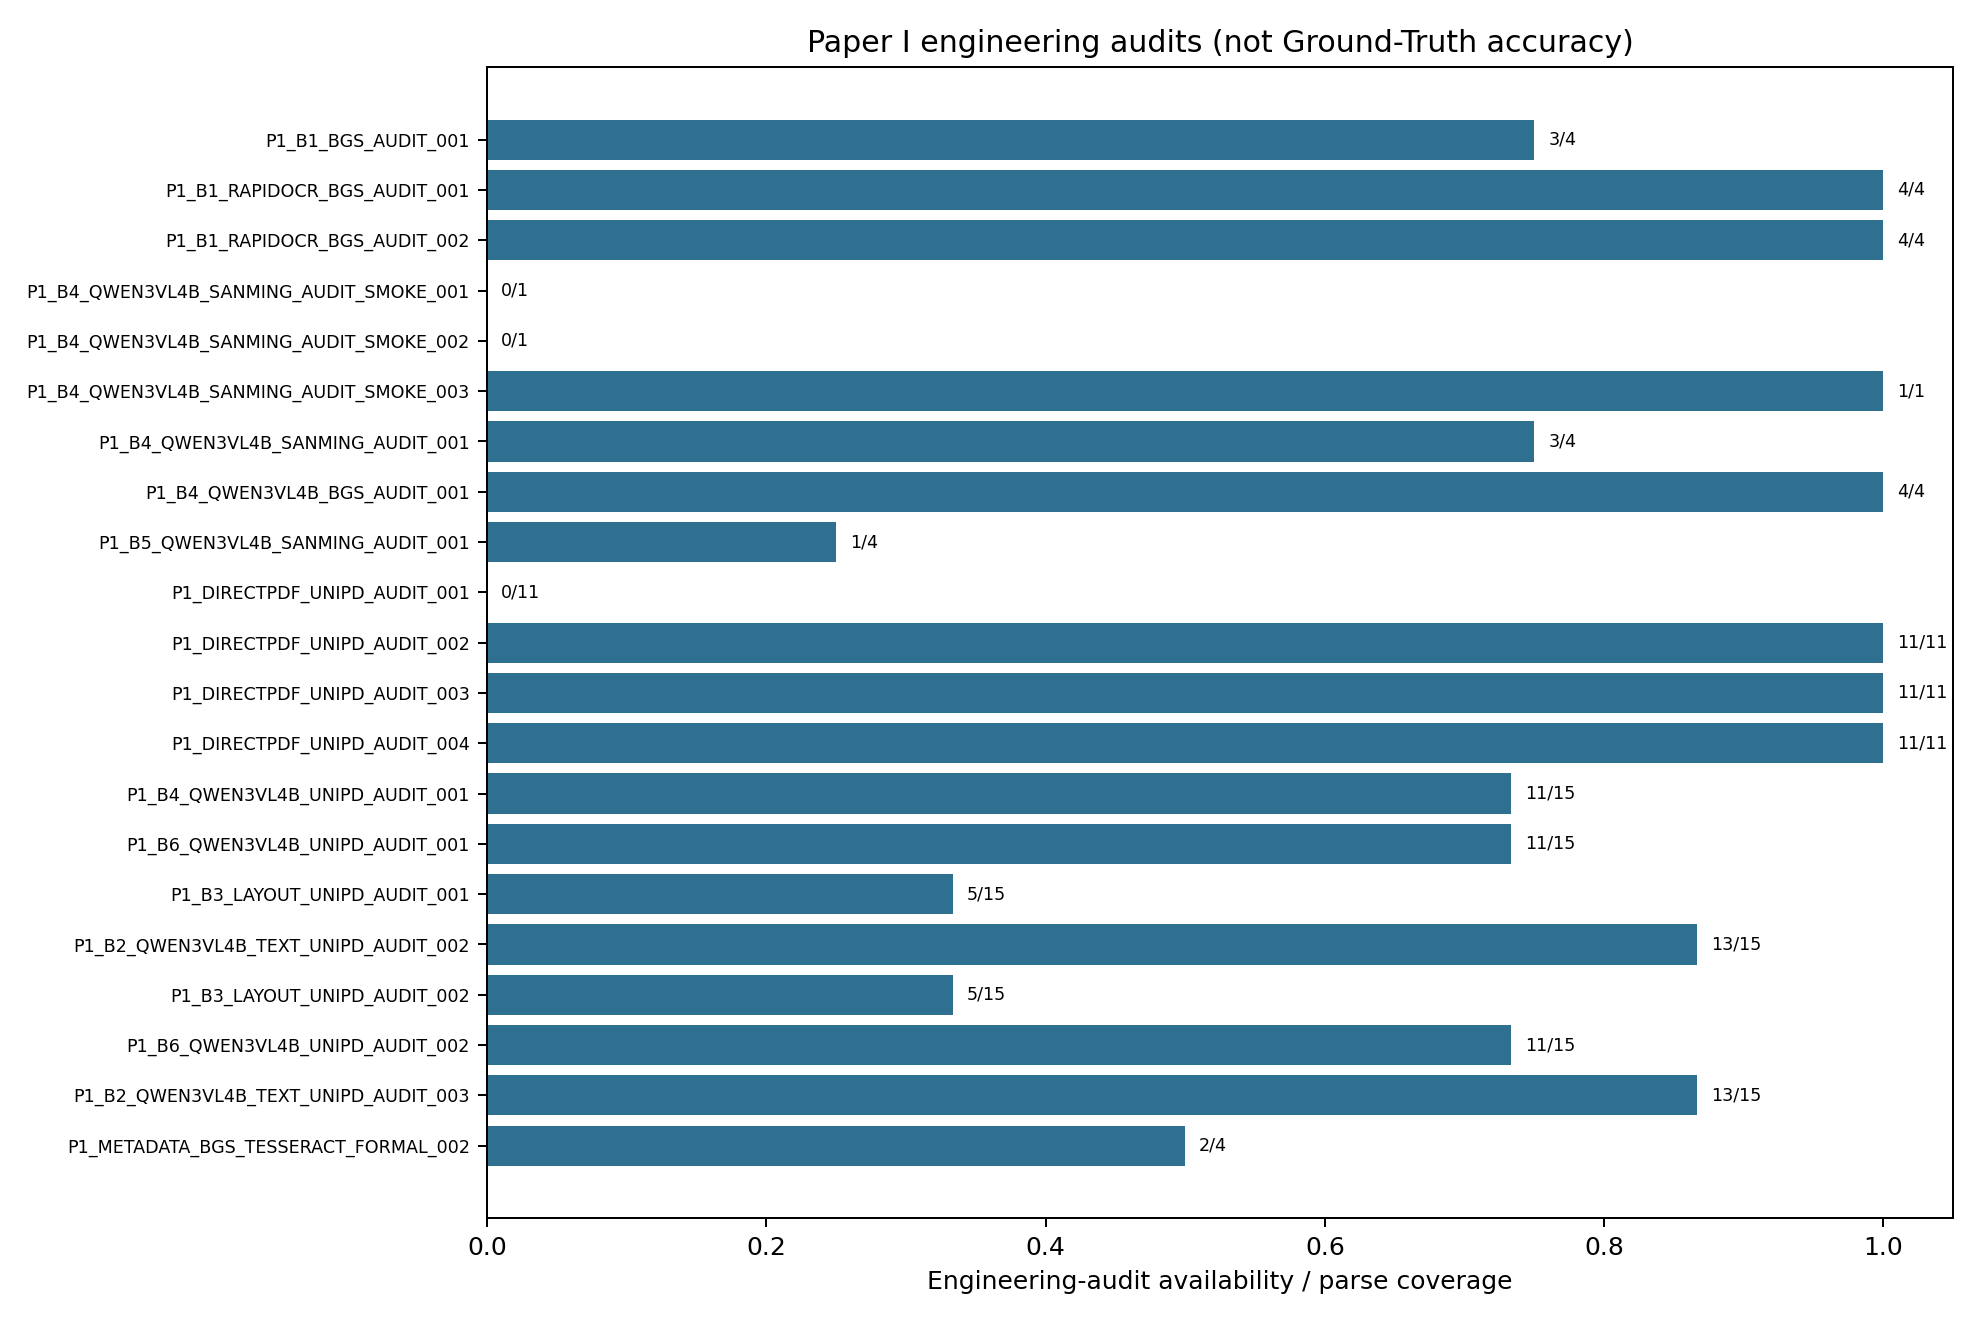
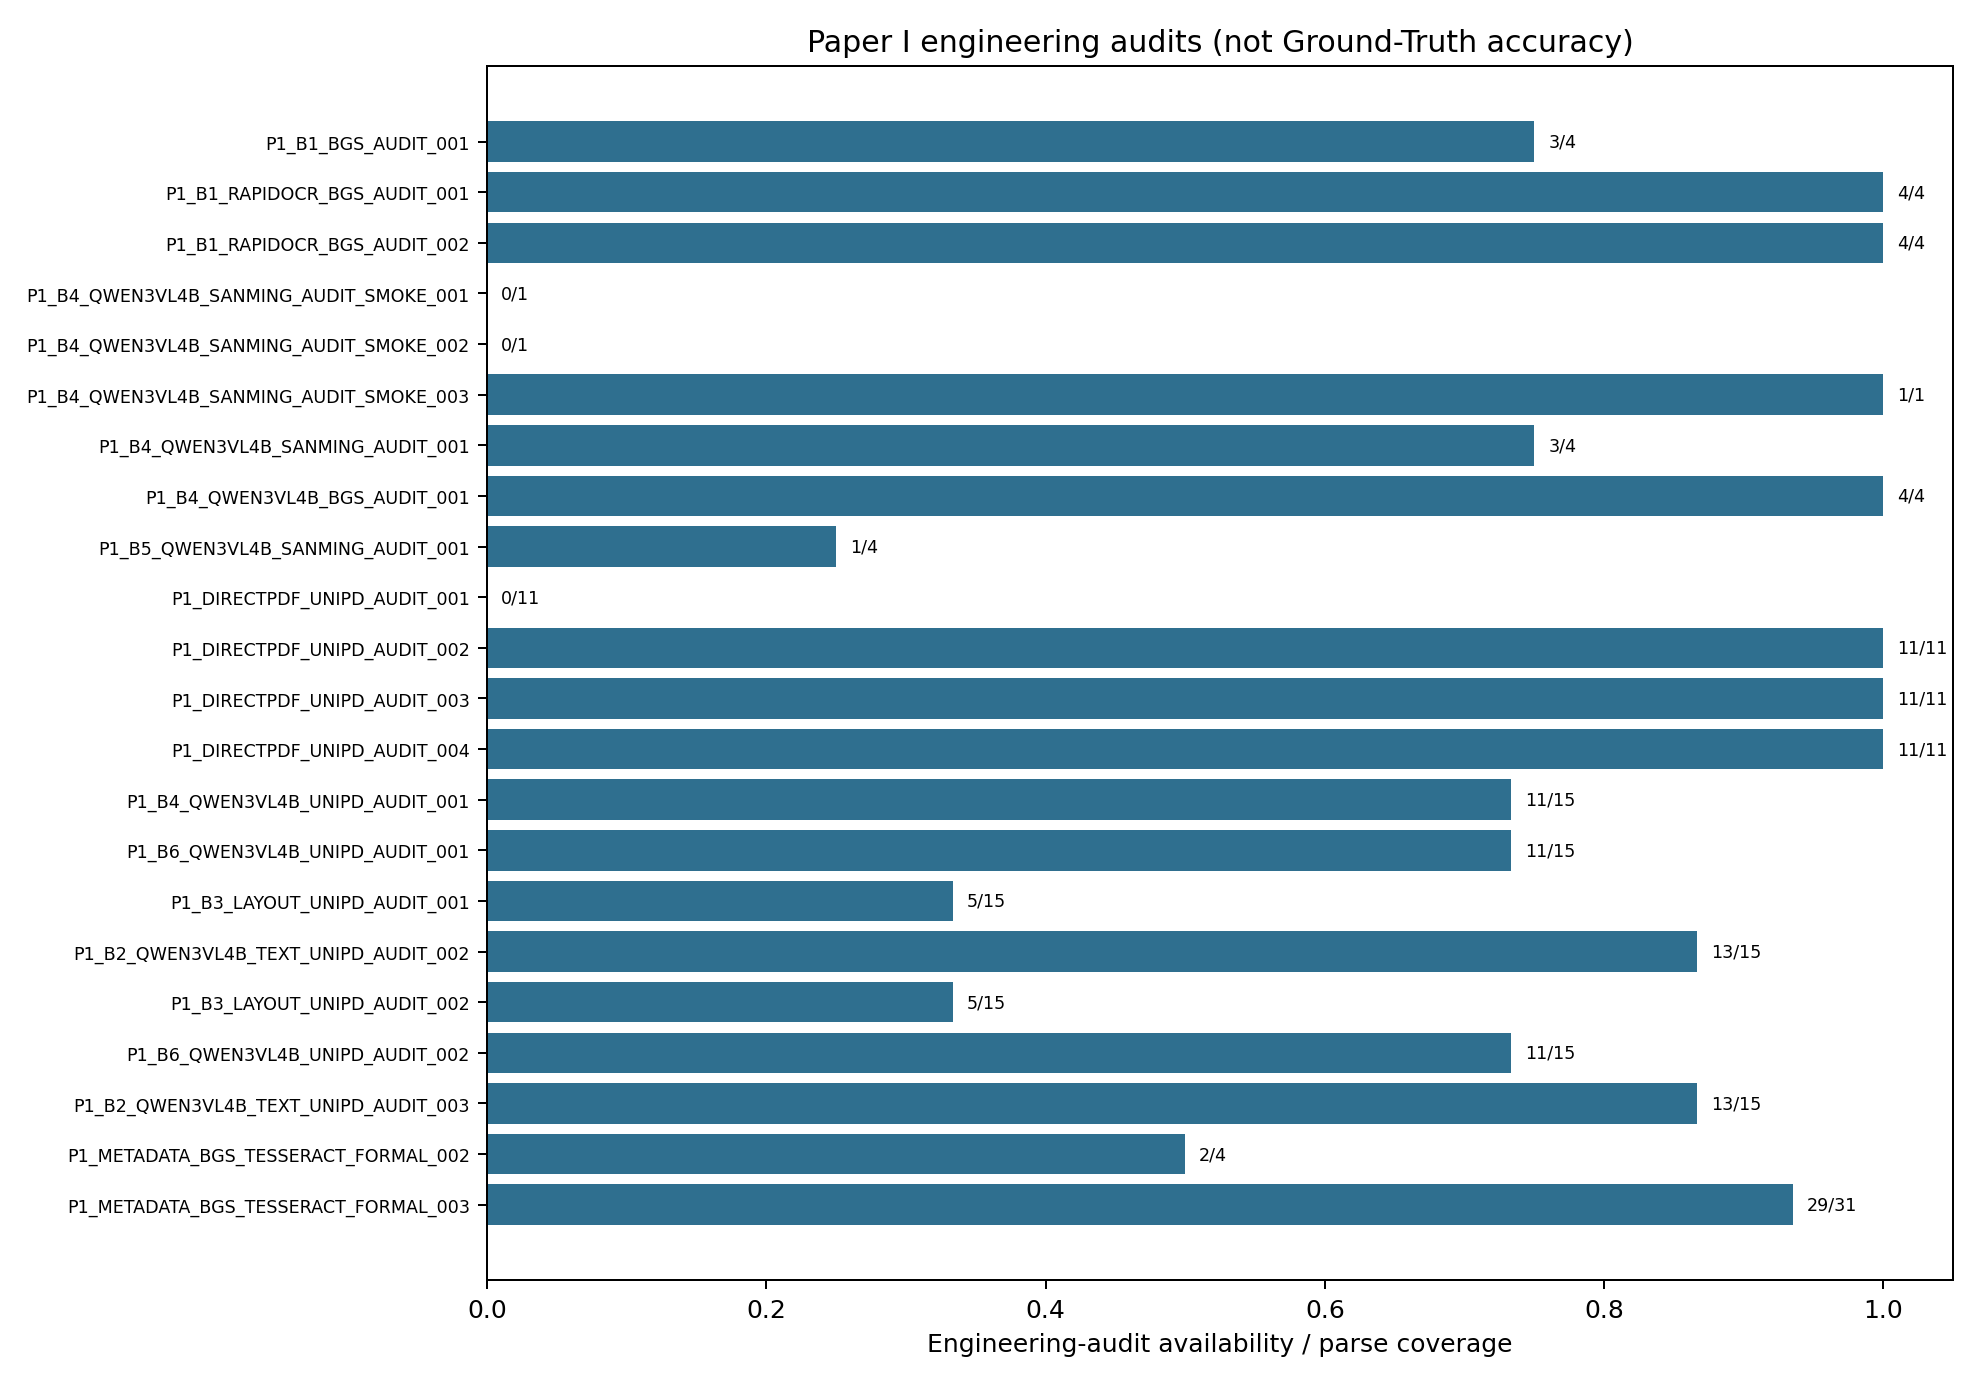
exp: index expanded BGS metadata benchmark

Changed region(s): [[0.0, 0.031, 0.9859, 0.9917]]

diff --git a/scripts/run_bgs_baseline.py b/scripts/run_bgs_baseline.py
@@ -39,6 +39,7 @@ def main() -> None:
     parser = argparse.ArgumentParser()
     parser.add_argument("--experiment-id", required=True)
     parser.add_argument("--dataset-root", type=Path, default=Path("/data/GeoLogParser/datasets/public/bgs_v001"))
+    parser.add_argument("--dataset-version", default=None)
     parser.add_argument("--results-root", type=Path, default=ROOT / "results")
     parser.add_argument("--ocr-backend", choices=("tesseract", "rapidocr"), default="tesseract")
     parser.add_argument("--render-dpi", type=int, default=300)
@@ -80,7 +81,7 @@ def main() -> None:
         "experiment_id": arguments.experiment_id,
         "git_commit": git_commit,
         "date": date.today().isoformat(),
-        "dataset_version": "bgs_opengeoscience_v001_fixed_ids_4_5_6_10",
+        "dataset_version": arguments.dataset_version or f"bgs_opengeoscience_{arguments.dataset_root.name}",
         "split_version": "source_record_disjoint_authoritative_metadata_v001",
         "model": model_id,
         "model_revision": backend_revision,

diff --git a/docs/status.md b/docs/status.md
@@ -1,14 +1,14 @@
 <!-- AUTO-GENERATED by scripts/update_status.py; evidence dashboard, not a paper result. -->
 # GeoLogParser Status
 
-Git commit: `3ccc55a669561bb992e29f4872f7d5da8ba52b9a`
+Git commit: `d8fdc79c8d2973e9ff74ba3853f305ecae1be7d6`
 
 ## Data tiers
 
 | Tier | Count | Meaning |
 |---|---:|---|
 | Real Gold | 0 | No verified human/public authoritative image-to-interval GT is currently frozen; authoritative metadata benchmark is tracked separately |
-| Authoritative metadata | 1 runs | Official metadata paired with scans; no interval/lithology labels |
+| Authoritative metadata | 2 runs | Official metadata paired with scans; no interval/lithology labels |
 | Silver | 18 | Machine-adjudicated candidate labels; not Gold |
 | Synthetic | 32 | Known programmatic labels; controlled experiments only |
 | Registry entries | 34 | Candidate sources, not page/interval counts |
@@ -28,7 +28,7 @@ Git commit: `3ccc55a669561bb992e29f4872f7d5da8ba52b9a`
 
 | Paper | Controlled formal | Real formal | Indexed runs |
 |---|---:|---:|---:|
-| paper1 | 2 | 1 | 31 |
+| paper1 | 2 | 2 | 32 |
 | paper2 | 1 | 0 | 3 |
 | paper3 | 1 | 0 | 5 |
 
